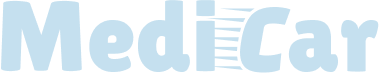
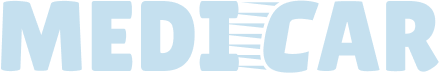
Results page

diff --git a/frontend/src/app/result/results.module.css b/frontend/src/app/result/results.module.css
@@ -1,0 +1,106 @@
+.page {
+  min-height: 100vh;
+  display: flex;
+  justify-content: center;
+  align-items: center;
+  background: #ffffff;
+  font-family: 'YourBrandFont', sans-serif;
+  background: radial-gradient(
+    circle,
+    #ffffff 0%,
+    #ffffff 40%,
+    #c5e0ff 100%
+  );
+}
+
+/* .card {
+  background: #ffffff;
+  border-radius: 12px;
+  padding: 2.5rem 3rem;
+  max-width: 600px;
+  width: 100%;
+  box-shadow: 0 10px 24px rgba(0, 0, 0, 0.05);
+  text-align: center;
+} */
+
+.heading {
+  background-color: #eaf7ff;
+  padding: 1rem;
+  font-size: 1.5rem;
+  font-weight: 700;
+  border-radius: 8px;
+  margin-bottom: 1.5rem;
+  border-radius: 12px;
+  padding: 1rem 2rem;
+  width: 100%;
+  text-align: center;
+}
+
+.symptomSearch {
+  display: flex;
+  justify-content: center;
+  align-items: center;
+  margin-bottom: 2rem;
+}
+
+.searchInput {
+  padding: 0.5rem 1rem;
+  font-size: 1rem;
+  border: 1px solid #ccc;
+  border-radius: 8px 0 0 8px;
+  width: 70%;
+  text-align: center;
+}
+
+.searchIcon {
+  padding: 0.5rem;
+  background: #ffffff;
+  border: 1px solid #ccc;
+  border-left: none;
+  border-radius: 0 8px 8px 0;
+  font-size: 1.2rem;
+}
+
+.label {
+  font-weight: 600;
+  border-radius: 8px;
+  border-radius: 12px;
+  padding: 1rem 2rem;
+  width: 100%;
+  text-align: center;
+}
+
+.contact {
+  font-family: monospace;
+  font-size: 1.1rem;
+  border-radius: 8px;
+  border-radius: 12px;
+  padding: 1rem 2rem;
+  width: 100%;
+  text-align: center;
+}
+
+.urgency {
+  font-weight: 500;
+  color: green;
+}
+
+.problemList {
+  list-style-type: none;
+  padding-left: 0;
+  line-height: 1.6;
+  border-radius: 8px;
+  border-radius: 12px;
+  width: 100%;
+  text-align: center;
+}
+
+.instructions {
+  margin-top: 0.5rem;
+  font-size: 1rem;
+  color: #333;
+  border-radius: 8px;
+  border-radius: 12px;
+  width: 100%;
+  text-align: center;
+}

diff --git a/frontend/src/app/result/page.jsx b/frontend/src/app/result/page.jsx
@@ -1,0 +1,49 @@
+'use client';
+import styles from './results.module.css';
+import { useSearchParams } from 'next/navigation';
+
+export default function ResultsPage() {
+  // In a real app, you'd probably pass this through state or query params
+  const car = { year: '2023', make: 'Mazda', model: '5' };
+  const symptom = 'Engine has ticking sounds';
+
+  // Dummy results
+  const contact = '+1 111 111 1111';
+  const urgency = 'Low';
+  const problems = ['Loose timing chain', 'Oil pressure issue', 'Valve train wear'];
+
+  return (
+    <main className={styles.page}>
+      <div className={styles.card}>
+        <h2 className={styles.heading}>Car Type: {car.year} {car.make} {car.model}</h2>
+
+        <div className={styles.symptomSearch}>
+          <input
+            type="text"
+            value={symptom}
+            readOnly
+            className={styles.searchInput}
+          />
+          <span className={styles.searchIcon}>🔍</span>
+        </div>
+
+        <p className={styles.label}>Roadside Assistance Contact:</p>
+        <p className={styles.contact}>{contact}</p>
+
+        <p className={styles.label}>Urgency Level: <span className={styles.urgency}>{urgency}</span></p>
+
+        <p className={styles.label}>Potential Problems:</p>
+        <ul className={styles.problemList}>
+          {problems.map((prob, idx) => (
+            <li key={idx}>• {prob}</li>
+          ))}
+        </ul>
+
+        <p className={styles.label}>What to do?</p>
+        <p className={styles.instructions}>
+          Get your vehicle inspected within a week. If noise worsens, stop driving and call assistance.
+        </p>
+      </div>
+    </main>
+  );
+}

diff --git a/frontend/src/app/home.module.css b/frontend/src/app/home.module.css
@@ -62,7 +62,7 @@
 
 .brand {
   font-size: 2.5rem;
-  font-weight: 700;
+  font-weight: 900;
   color: #b3d4f0;
   margin-bottom: 1.5rem;
   display: flex;
